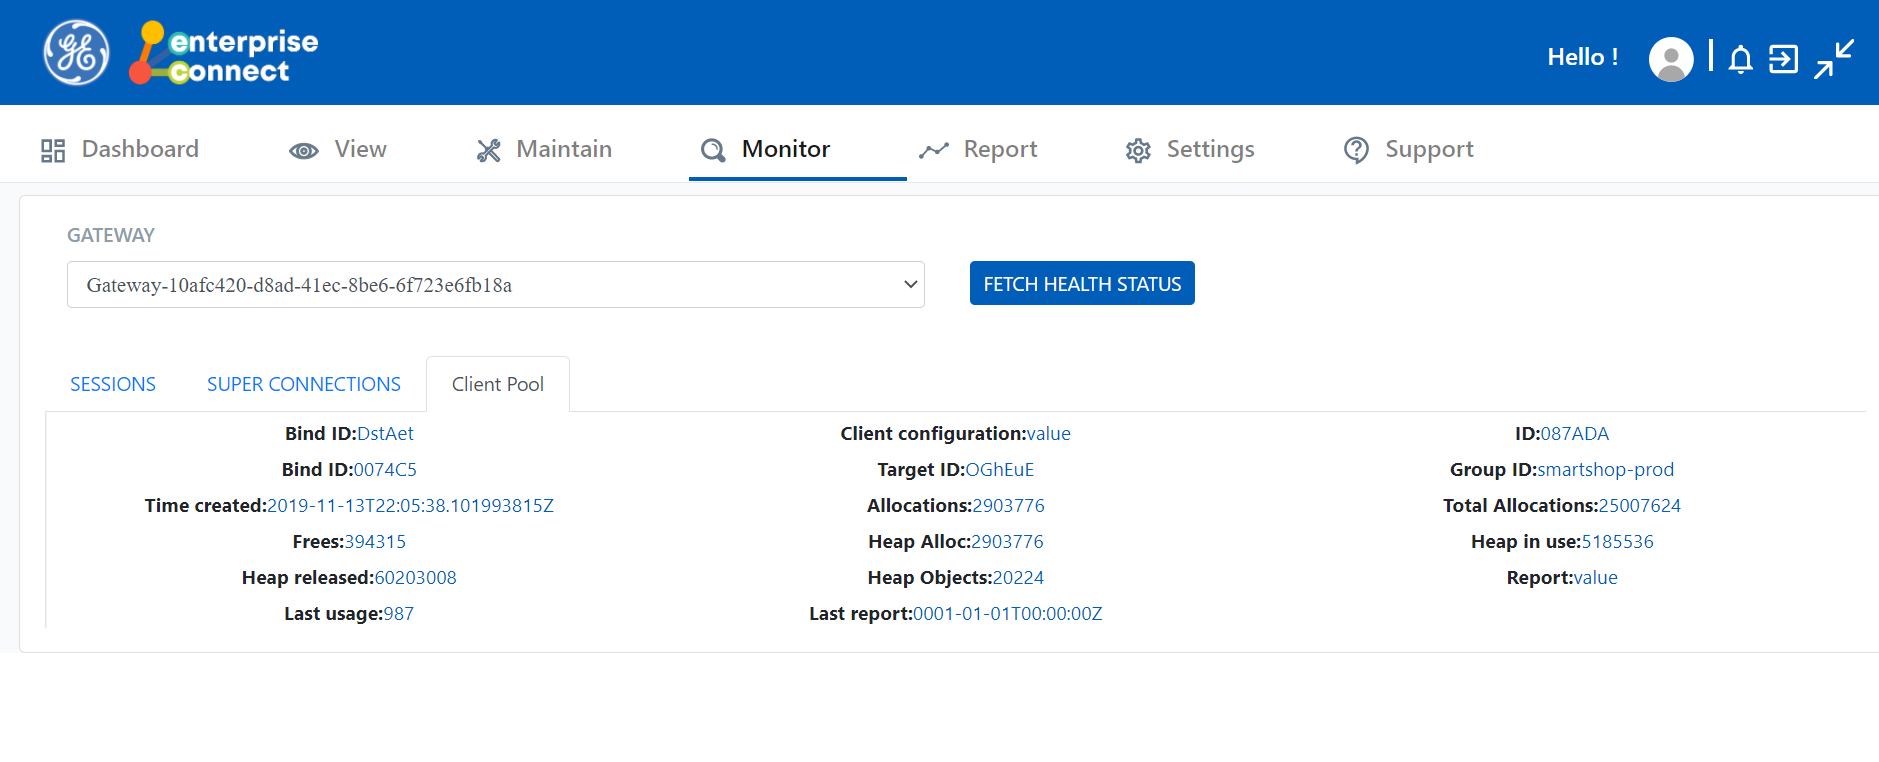
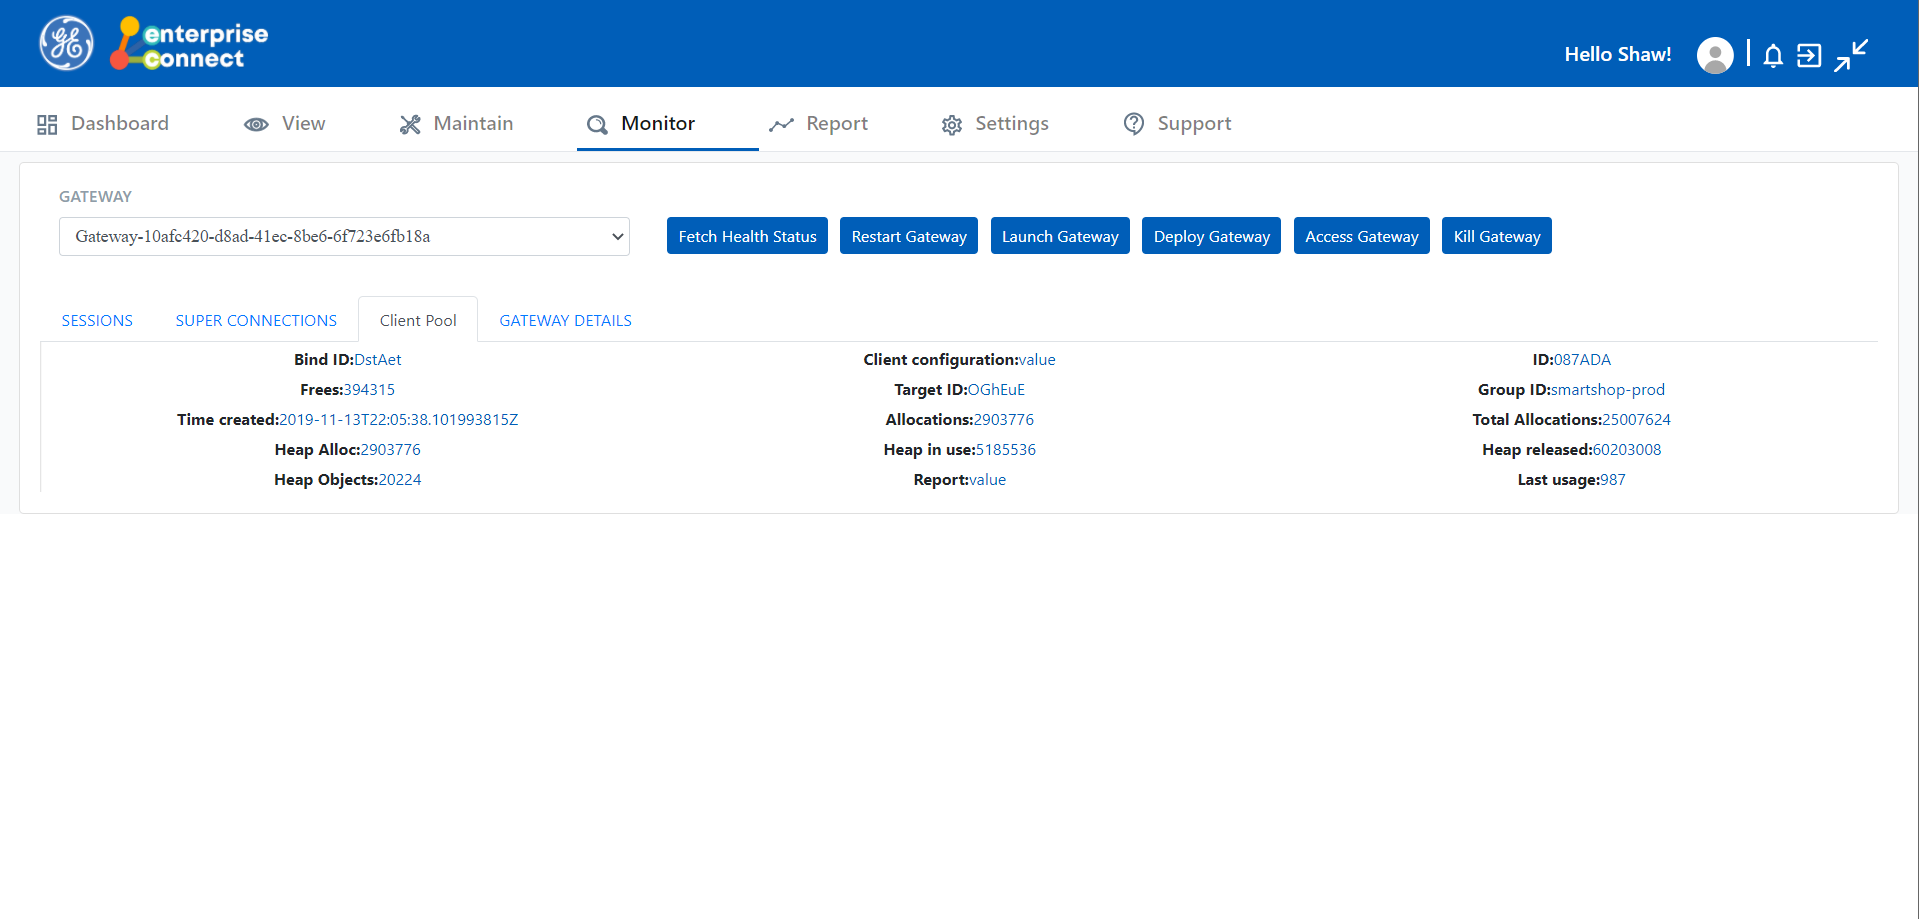
Update EC-UI-screenshot.md (#115)
* Update EC-UI-screenshot.md

updated changes

* Add files via upload

added updated screenshot

* Delete MonitorHealthSuperConnections.JPG

* Delete MonitoHealthSuperConnections.png

* Update EC-UI-screenshot.md

* Add files via upload

* Delete MonitorHealthSession.png

* Update EC-UI-screenshot.md

* Update EC-UI-screenshot.md

* Delete MonitorHealthClientPool.png

* Add files via upload

updated screen shot changes as per new buttons and gatway

* Update EC-UI-screenshot.md

diff --git a/docs/EC-UI-screenshot.md b/docs/EC-UI-screenshot.md
@@ -17,7 +17,8 @@
      &nbsp;&nbsp;&nbsp; [3.1 Notifications](#31-notifications) \
      &nbsp;&nbsp;&nbsp; [3.2 Session](#32-session) \
      &nbsp;&nbsp;&nbsp; [3.3 Super Connection](#33-super-connection) \
-     &nbsp;&nbsp;&nbsp; [3.4 Client Pool](#34-client-pool) 
+     &nbsp;&nbsp;&nbsp; [3.4 Client Pool](#34-client-pool)\
+     &nbsp;&nbsp;&nbsp; [3.5 Gateway Details](#35-gateway-details) 
      
    [4.Setting](#4-setting) \
      &nbsp;&nbsp;&nbsp; [4.1 User management](#41-user-management) 
@@ -111,10 +112,7 @@
 ### 3.2 Session
 
 
-![Monitor Health Session](/docs/Ec%20Screenshot/Monitor/MonitorHealthSession.png?raw=true "Monitor Health Session")
-
-
-
+![Monitor Health Session](/docs/Ec%20Screenshot/Monitor/MonitorHealthSession.JPG?raw=true "Monitor Health Session")
 
 
 ### 3.3 Super Connection
@@ -124,13 +122,14 @@
 
 
 
-
-
 ### 3.4 Client Pool
 
  ![Monitor Health Client Pool](/docs/Ec%20Screenshot/Monitor/MonitorHealthClientPool.png?raw=true "Monitor Health Client Pool")
 
 
+### 3.5 Gateway Details
+
+ ![Monitor Health Client Pool](/docs/Ec%20Screenshot/Monitor/MonitorHealthGatewayDetails.JPG?raw=true "Monitor Health Client Pool")
 
 
 
